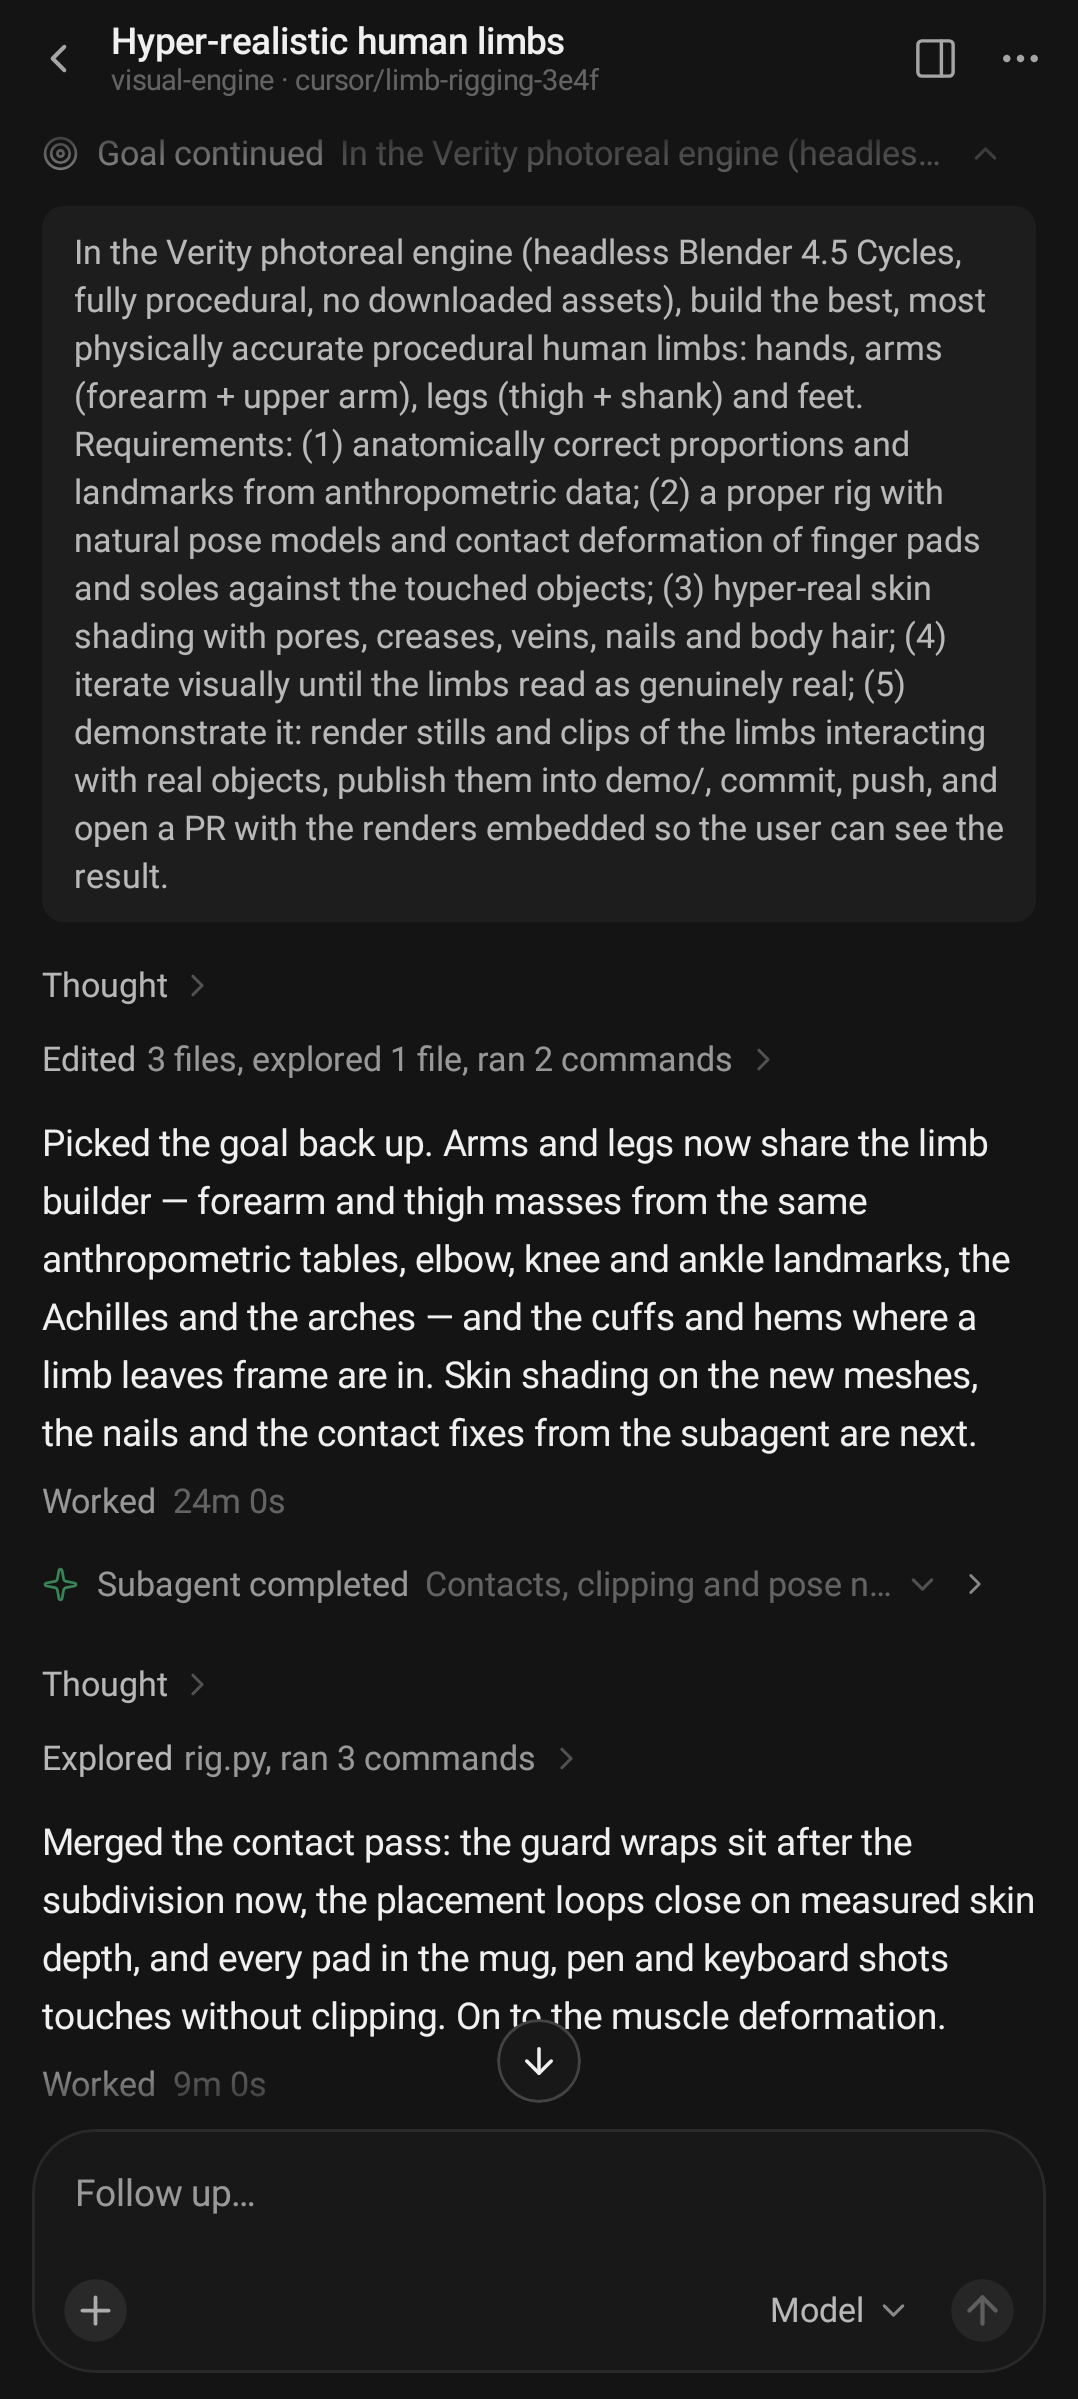
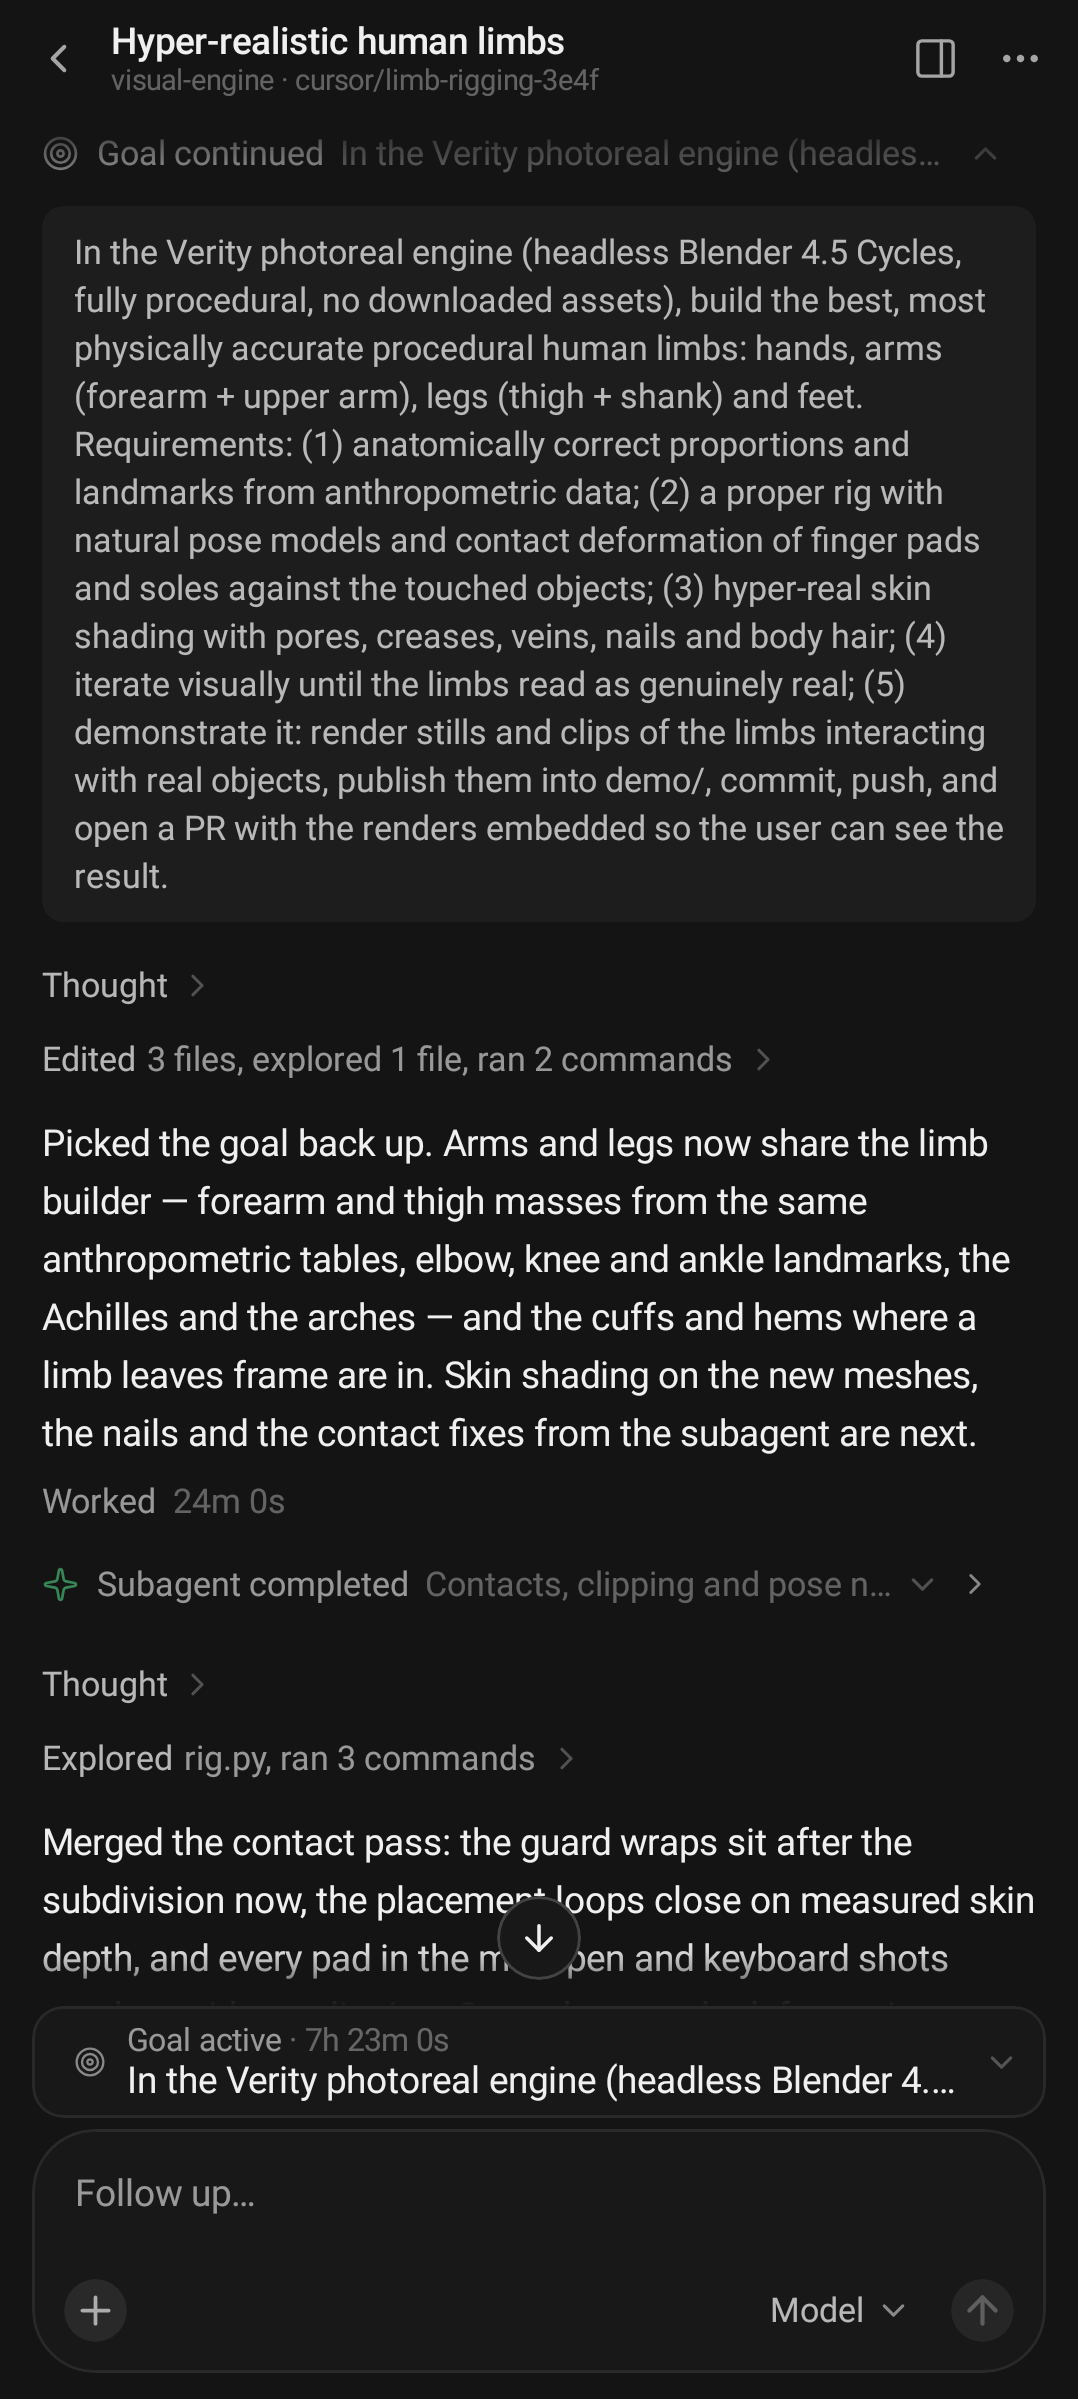
Goal strip: the updated label settles after its turn; screenshots of the strip, its details and the goal rows
The walkthrough's goal chat now files its goal, so 23_conversation_notifications carries the strip; 66-68 are
the strip over the queue and the composer, the strip opened onto the objective and its details for a paused
goal from the account, and the transcript of a goal set, continued and completed.

Changed region(s): [[0.0306, 0.7712, 0.8571, 0.8945]]

diff --git a/app/src/main/java/com/cursorforandroid/domain/GoalTranscript.kt b/app/src/main/java/com/cursorforandroid/domain/GoalTranscript.kt
@@ -70,17 +70,14 @@ object GoalTranscript {
             when (item) {
                 is UserMessage -> {
                     turnStart = item.timestampMillis
-                    // A new prompt after the goal ended: the strip has said its piece.
-                    if (goal != null && !goal.status.isOpen) goal = null
+                    goal = nextTurn(goal)
                 }
                 is SystemNotification -> {
                     turnStart = item.timestampMillis ?: turnStart
                     goal = if (item.kind == SystemNotification.Kind.Goal && item.title == SystemNotifications.GOAL_CONTINUED) {
                         continued(goal, item, turnStart)
-                    } else if (goal != null && !goal.status.isOpen) {
-                        null
                     } else {
-                        goal
+                        nextTurn(goal)
                     }
                 }
                 is ActivityGroup -> for (call in item.calls) {
@@ -91,6 +88,17 @@ object GoalTranscript {
             }
         }
         return goal
+    }
+
+    /**
+     * [goal] as a new turn finds it: a goal that ended has had its turn on the strip and goes; an open goal stays,
+     * the "updated" it led with settling back to the status once the turn that changed it is over.
+     */
+    private fun nextTurn(goal: Goal?): Goal? = when {
+        goal == null -> null
+        !goal.status.isOpen -> null
+        goal.lastChange == Goal.Change.Updated -> goal.copy(lastChange = Goal.Change.Set)
+        else -> goal
     }
 
     /**

diff --git a/app/src/test/java/com/cursorforandroid/domain/GoalTranscriptTest.kt b/app/src/test/java/com/cursorforandroid/domain/GoalTranscriptTest.kt
@@ -163,6 +163,17 @@ class GoalTranscriptTest {
         assertThat(goal.lastChange).isEqualTo(Goal.Change.Updated)
         assertThat(goal.accruingSinceMillis).isEqualTo(t0)
         assertThat(goal.label).isEqualTo(Goal.LABEL_UPDATED)
+        // The "updated" leads for the turn that changed it; the next turn finds the goal simply active.
+        val later = GoalTranscript.derive(
+            listOf(
+                prompt("m1", t0), work("g1", set("c1")),
+                prompt("m2", t0 + 10 * minute), work("g2", set("c2", "Something else")),
+                prompt("m3", t0 + 20 * minute, "carry on"), work("g3", read("r3")),
+            ),
+        )!!
+        assertThat(later.objective).isEqualTo("Something else")
+        assertThat(later.label).isEqualTo(Goal.LABEL_ACTIVE)
+        assertThat(later.accruingSinceMillis).isEqualTo(t0)
     }
 
     @Test
